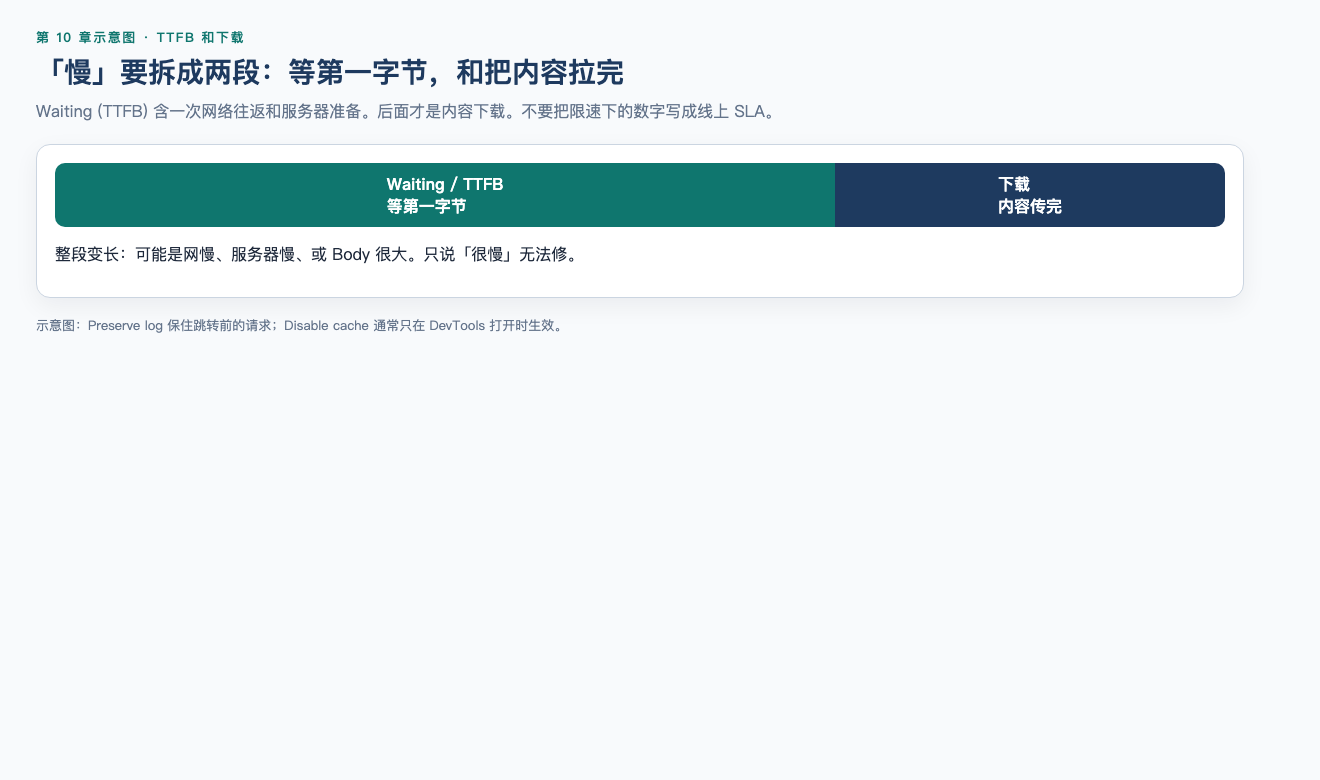
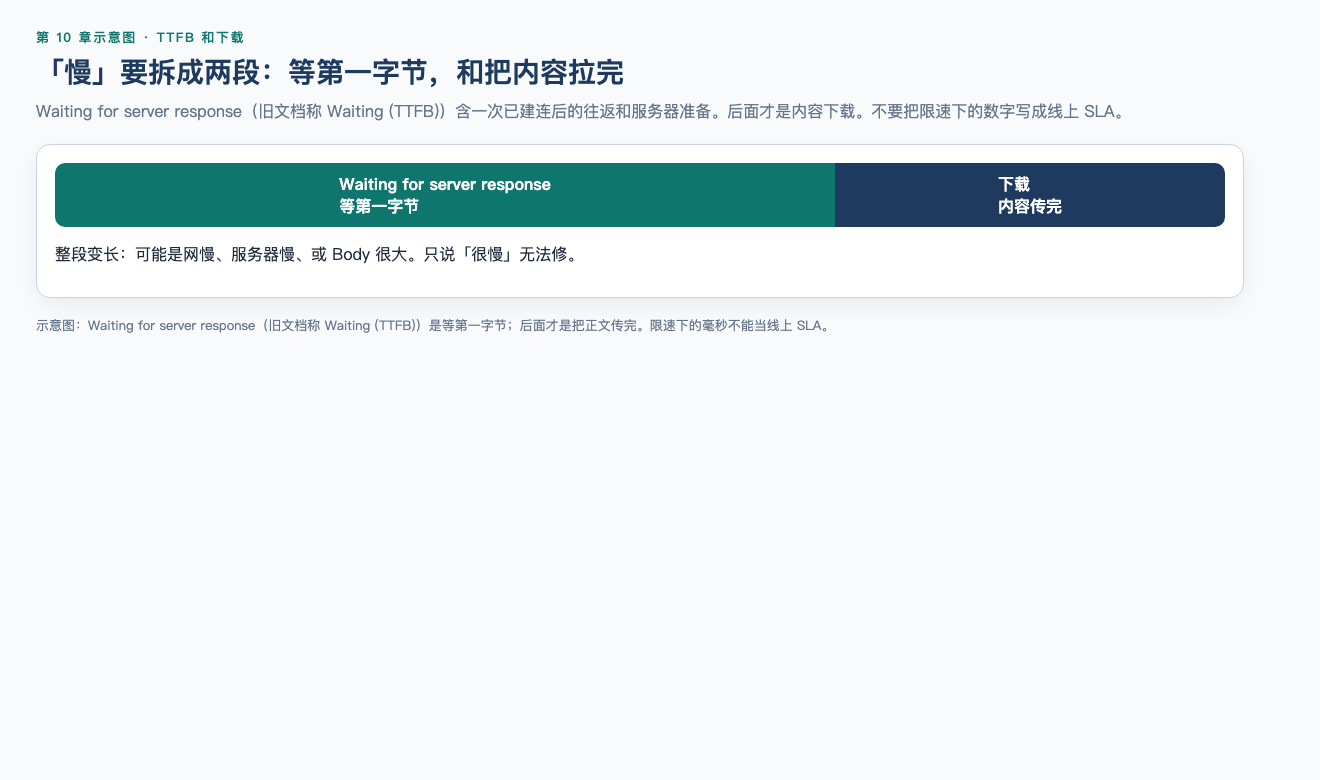
fix(ch10): MiniShop login is a hidden swap, not a navigation
Preserve log belongs on real document jumps. Timing label matches current Chrome.

Changed region(s): [[0.0621, 0.1231, 0.8386, 0.1538], [0.0621, 0.4, 0.6212, 0.4308], [0.2485, 0.2154, 0.4348, 0.2769]]

diff --git a/chapters/assets/diagrams/ch10-two-switches.html b/chapters/assets/diagrams/ch10-two-switches.html
@@ -4,6 +4,6 @@
 <p class="kicker">第 10 章示意图 · 两个容易混的开关</p>
 <h1>Preserve log 保住跳转前的请求；Disable cache 减少缓存演戏</h1>
 <p class="lead">关掉 DevTools 后，Disable cache 通常不再生效。不要以为勾过一次就永远模拟首次访问。</p>
-<div class="row"><div class="col card"><span class="tag tag-info">Preserve log</span><h2>列表别被跳转清空</h2><p style="font-size:16px;line-height:1.55">登录后若整页跳转，先勾它再点提交，才能看到那条 POST。</p></div><div class="col card"><span class="tag tag-warn">Disable cache</span><h2>少用旧文件演戏</h2><p style="font-size:16px;line-height:1.55">只在开发者工具打开时更接近首次访问。测缓存本身时不要一直开着。</p></div></div>
-<p class="caption">示意图：Copy as cURL 会带上 Cookie 和密码，保存前必须脱敏。</p>
+<div class="row"><div class="col card"><span class="tag tag-info">Preserve log</span><h2>列表别被跳转清空</h2><p style="font-size:16px;line-height:1.55">有文档跳转时先勾它再导航，跳转前的请求才会留在列表里。MiniShop 登录本身不跳转。</p></div><div class="col card"><span class="tag tag-warn">Disable cache</span><h2>少用旧文件演戏</h2><p style="font-size:16px;line-height:1.55">只在开发者工具打开时更接近首次访问。测缓存本身时不要一直开着。</p></div></div>
+<p class="caption">示意图：Preserve log 管列表会不会被导航清空；Disable cache 管这次排障要不要用本地缓存演戏。两个开关不是同一件事。</p>
 </div></body></html>

diff --git a/chapters/assets/diagrams/ch10-ttfb.html b/chapters/assets/diagrams/ch10-ttfb.html
@@ -3,15 +3,15 @@
 <body><div class="page">
 <p class="kicker">第 10 章示意图 · TTFB 和下载</p>
 <h1>「慢」要拆成两段：等第一字节，和把内容拉完</h1>
-<p class="lead">Waiting (TTFB) 含一次网络往返和服务器准备。后面才是内容下载。不要把限速下的数字写成线上 SLA。</p>
+<p class="lead">Waiting for server response（旧文档称 Waiting (TTFB)）含一次已建连后的往返和服务器准备。后面才是内容下载。不要把限速下的数字写成线上 SLA。</p>
 
     <div class="card">
       <div style="display:flex;height:64px;border-radius:10px;overflow:hidden;font-weight:700;color:#fff">
-        <div style="flex:2;background:#0f766e;display:flex;align-items:center;justify-content:center">Waiting / TTFB<br>等第一字节</div>
+        <div style="flex:2;background:#0f766e;display:flex;align-items:center;justify-content:center">Waiting for server response<br>等第一字节</div>
         <div style="flex:1;background:#1e3a5f;display:flex;align-items:center;justify-content:center">下载<br>内容传完</div>
       </div>
       <p style="margin-top:16px">整段变长：可能是网慢、服务器慢、或 Body 很大。只说「很慢」无法修。</p>
     </div>
     
-<p class="caption">示意图：Preserve log 保住跳转前的请求；Disable cache 通常只在 DevTools 打开时生效。</p>
+<p class="caption">示意图：Waiting for server response（旧文档称 Waiting (TTFB)）是等第一字节；后面才是把正文传完。限速下的毫秒不能当线上 SLA。</p>
 </div></body></html>

diff --git a/chapters/quizzes/stage-3-web.md b/chapters/quizzes/stage-3-web.md
@@ -7,9 +7,9 @@
 3. 浏览器 `required` 通过，能否证明服务端也会拒绝空手机号？
 4. （必过）按 RFC 9110：safe、幂等、可缓存分别约束什么？能不能说“GET 不安全、POST 安全”？
 5. 401 和 403 差在哪？MiniShop 里各举一例。
-6. 为什么要先打开 Network 再点登录？Preserve log 解决什么？
+6. 为什么要先打开 Network 再点登录？Preserve log 解决什么？登录成功就一定要勾吗？
 7. （必过）Copy as cURL 之后必须先做什么，才能保存或发给别人？
-8. TTFB（Waiting）大致包含什么？它等于下载完成时间吗？
+8. Timing 里 **Waiting for server response**（旧称 Waiting (TTFB)）大致包含什么？它等于下载完成时间吗？等于 web.dev 的页面 TTFB 吗？
 9. MiniShop v1.0 登录成功时，你应在 Network 里看到哪两类凭证痕迹？（当前实现已是这样；冻结仪式在第 19 章）
 10. 哪句正确？ A. Bearer Token 就是 Session B. Disable cache 关掉 DevTools 后通常仍生效 C. 200 也要看响应体 D. Lax Cookie 能挡住一切跨站请求
 
@@ -19,9 +19,9 @@
 2. 阻止页面脚本读取该 Cookie；不阻止浏览器在后续请求里自动带上它。
 3. 不能。前端约束可被绕过，要以接口或存库结果为准。
 4. safe：客户端不请求改变资源状态（写日志不破定义）。幂等：多次相同请求的预期效果与一次相同。可缓存是另一项，不等于 safe。不能用“安全/不安全”替换这两个词，更不能说 GET 不安全、POST 安全。
-5. 401 未通过认证（无 token 下单）；403 已认证但没权限（普通用户打 `/api/admin/*`，如 `/api/admin/orders` 或 `/api/admin/products`）。
-6. 否则登录请求可能已经结束。Preserve log 避免跳转清空列表。
+5. 401：没认出你——无有效凭证（无 Bearer **且** 无 Cookie `minishop_session`）访问受保护接口，例如两者都不带时 `POST /api/orders`。仅缺 `Authorization`、浏览器仍带着 Cookie 时，MiniShop 仍可能 201。403：已认出你但不许，例如普通用户打 `/api/admin/*`（`/api/admin/orders` 或 `/api/admin/products`），或用户 B 读 A 的 `GET /api/orders/{id}`。
+6. 先开 Network 是因为请求可能在打开面板前已经结束，与是否跳转无关。Preserve log 解决的是**有文档跳转/整页导航时**列表被清空，不是「登录就必须勾」。MiniShop v1.0 登录是页面内 hidden 切换，未勾选时登录 POST 通常还在；要看清空效果，登录后点「后台」进入 `/admin.html`。
 7. 删除 Cookie、Authorization、密码等凭证，只在授权环境复现。
-8. 等待首字节，含一次往返和服务器准备时间。不等于整段下载完成。
-9. 响应 JSON 里的 `token`，以及 `Set-Cookie`（HttpOnly）。后续 API 以 Bearer 为准。
+8. 等待首字节，含已建连后的一次往返和服务器准备时间。不等于整段下载完成。现行 Chrome 英文面板写 **Waiting for server response**（文档/旧版可能写 Waiting (TTFB)）；该段不含 DNS/建连/TLS，也不是 web.dev/CrUX 从导航起算的页面 TTFB。
+9. 响应 JSON 里的 `token`，以及 `Set-Cookie`（HttpOnly）。后续请求可以带 Bearer；没有 Bearer 时 Cookie `minishop_session` 仍能认人。
 10. C。
